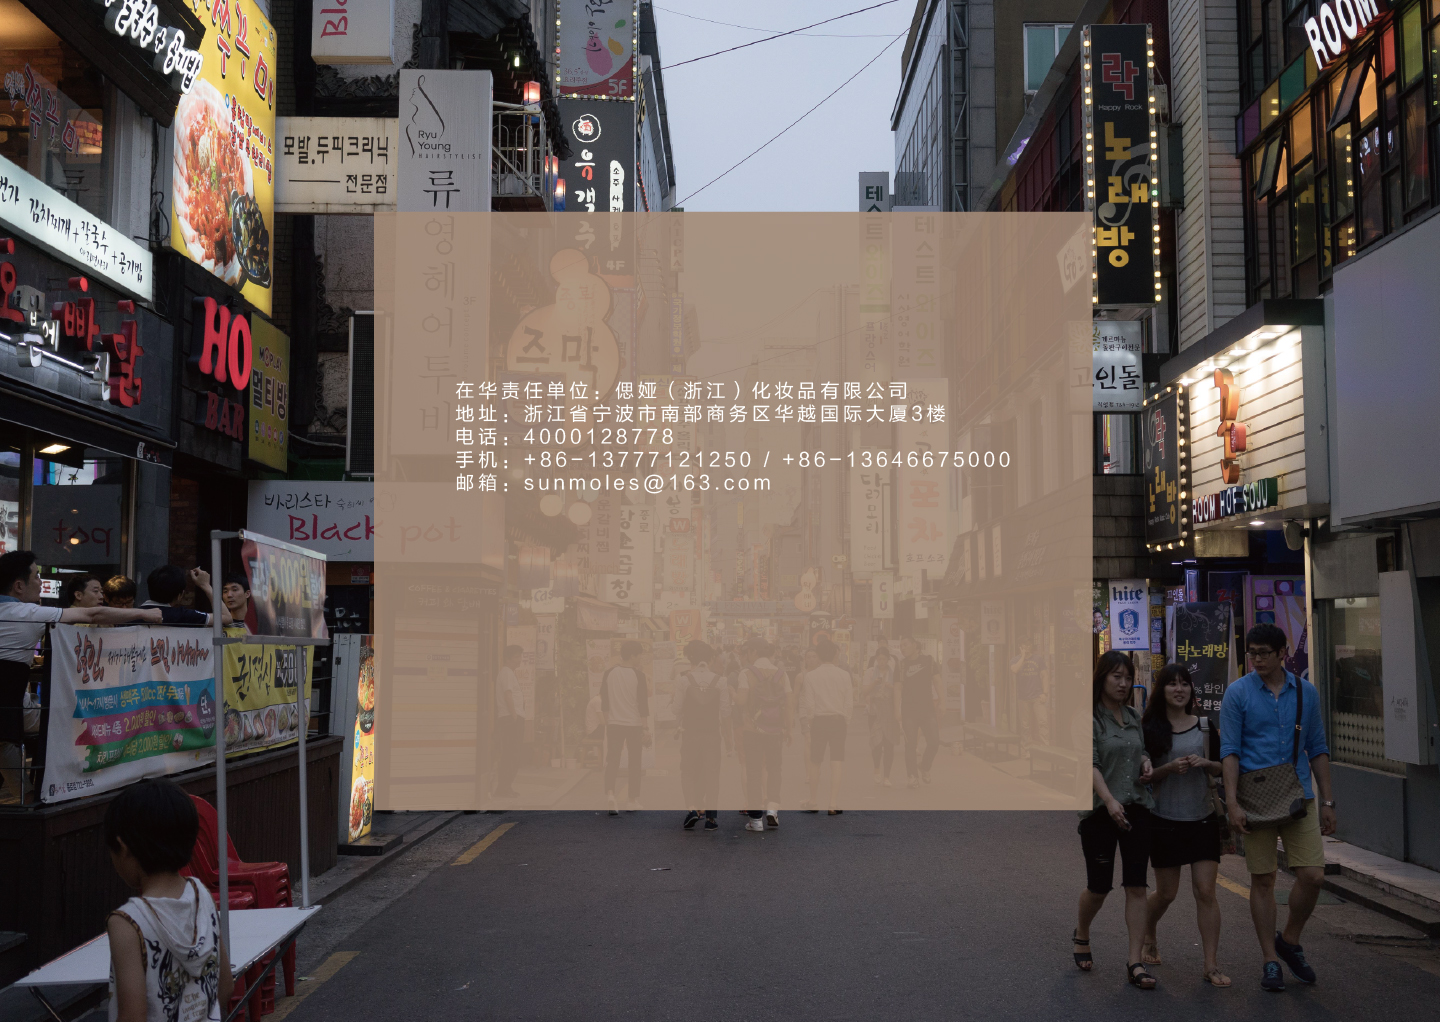
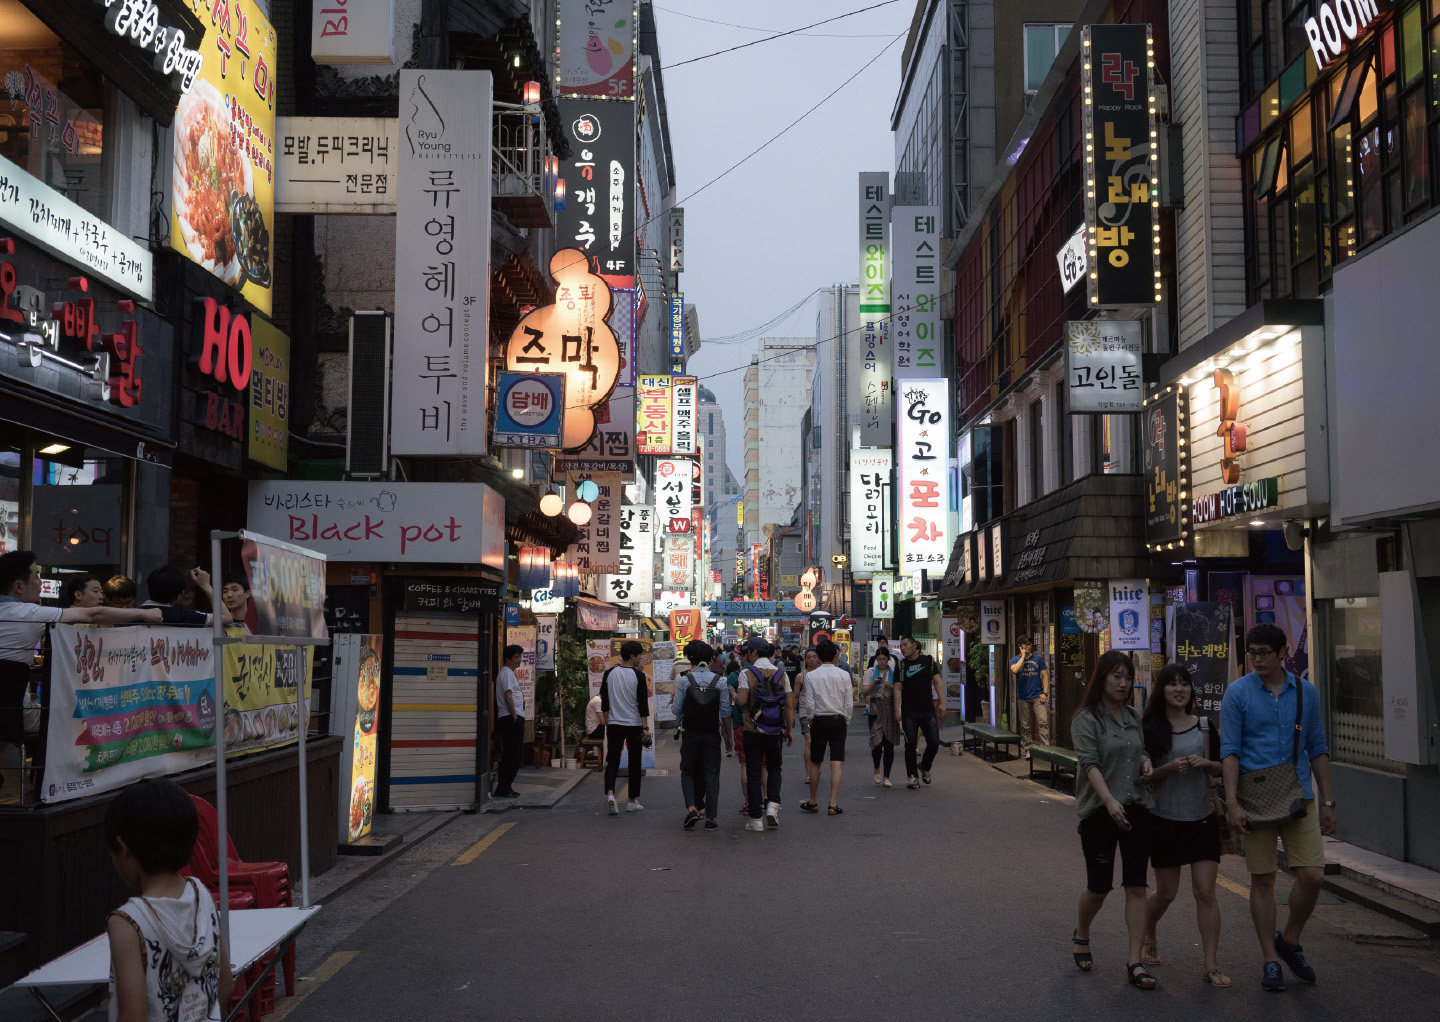
landing page

Changed region(s): [[0.25, 0.182, 0.7812, 0.819]]

diff --git a/app/assets/stylesheets/unit9_idx.scss b/app/assets/stylesheets/unit9_idx.scss
@@ -1,5 +1,26 @@
 .unit9_idx {
-	.sb-hline {
-		 background: url(/images/unit9_idx/area09_idx_bg.png) repeat;
+	.ptbg {
+		position: absolute;
+		top: 26px;
+		left: 0;
+		width: 100%;
+		display: block;
+		text-align: center;
+		z-index: 3;
+	}
+
+	.box {
+    position: absolute;
+		text-align: center;
+    top: 50%;
+    left: 50%;
+    margin: -80px 0 0 -360px;
+    width: 720px;
+    height: 350px;
+    padding: 40px 70px 45px 80px;
+    color: #756b5f;
+		font: 12px/18px "Gill Sans MT";
+		z-index: 3;
+		background: url(/images/unit9_idx/area09_idx_bg.png);
 	}
 }

diff --git a/app/assets/stylesheets/unit11_idx.scss b/app/assets/stylesheets/unit11_idx.scss
@@ -1,0 +1,30 @@
+.unit11_idx {
+	.ptbg {
+		position: absolute;
+		top: 26px;
+		left: 0;
+		width: 100%;
+		display: block;
+		text-align: center;
+		z-index: 3;
+	}
+
+	.box {
+    position: absolute;
+		// text-align: center;
+    top: 50%;
+    left: 50%;
+    margin: -280px 0 0 -360px;
+    width: 720px;
+    height: 350px;
+    padding: 40px 170px 45px 180px;
+    color: #fff;
+		font: 14px/18px "Gill Sans MT";
+		z-index: 3;
+		background: url(/images/unit11_idx/area11_idx_bg.png);
+	}
+
+  .contxt {
+    margin: 10px 0 0 0;
+  }
+}

diff --git a/app/assets/stylesheets/unit10_idx.scss b/app/assets/stylesheets/unit10_idx.scss
@@ -1,0 +1,25 @@
+.certification {
+  .hline {
+      top: 240px;
+      min-width: 420px;
+
+      img {
+        // width: 500px;
+      }
+  }
+
+  .title {
+    text-align: center;
+    height: 200px;
+  }
+
+  .pics img {
+    width: 200px;
+  }
+
+  .contxt {
+    height: 100px;
+    font: 18px "Gill Sans MT";
+    color: #fff;
+  }
+}

diff --git a/app/assets/stylesheets/footer.scss b/app/assets/stylesheets/footer.scss
@@ -1,0 +1,5 @@
+.footer {
+  background-color: #fff;
+  text-align: center;
+  font: 12px/18px "Gill Sans MT";
+}
